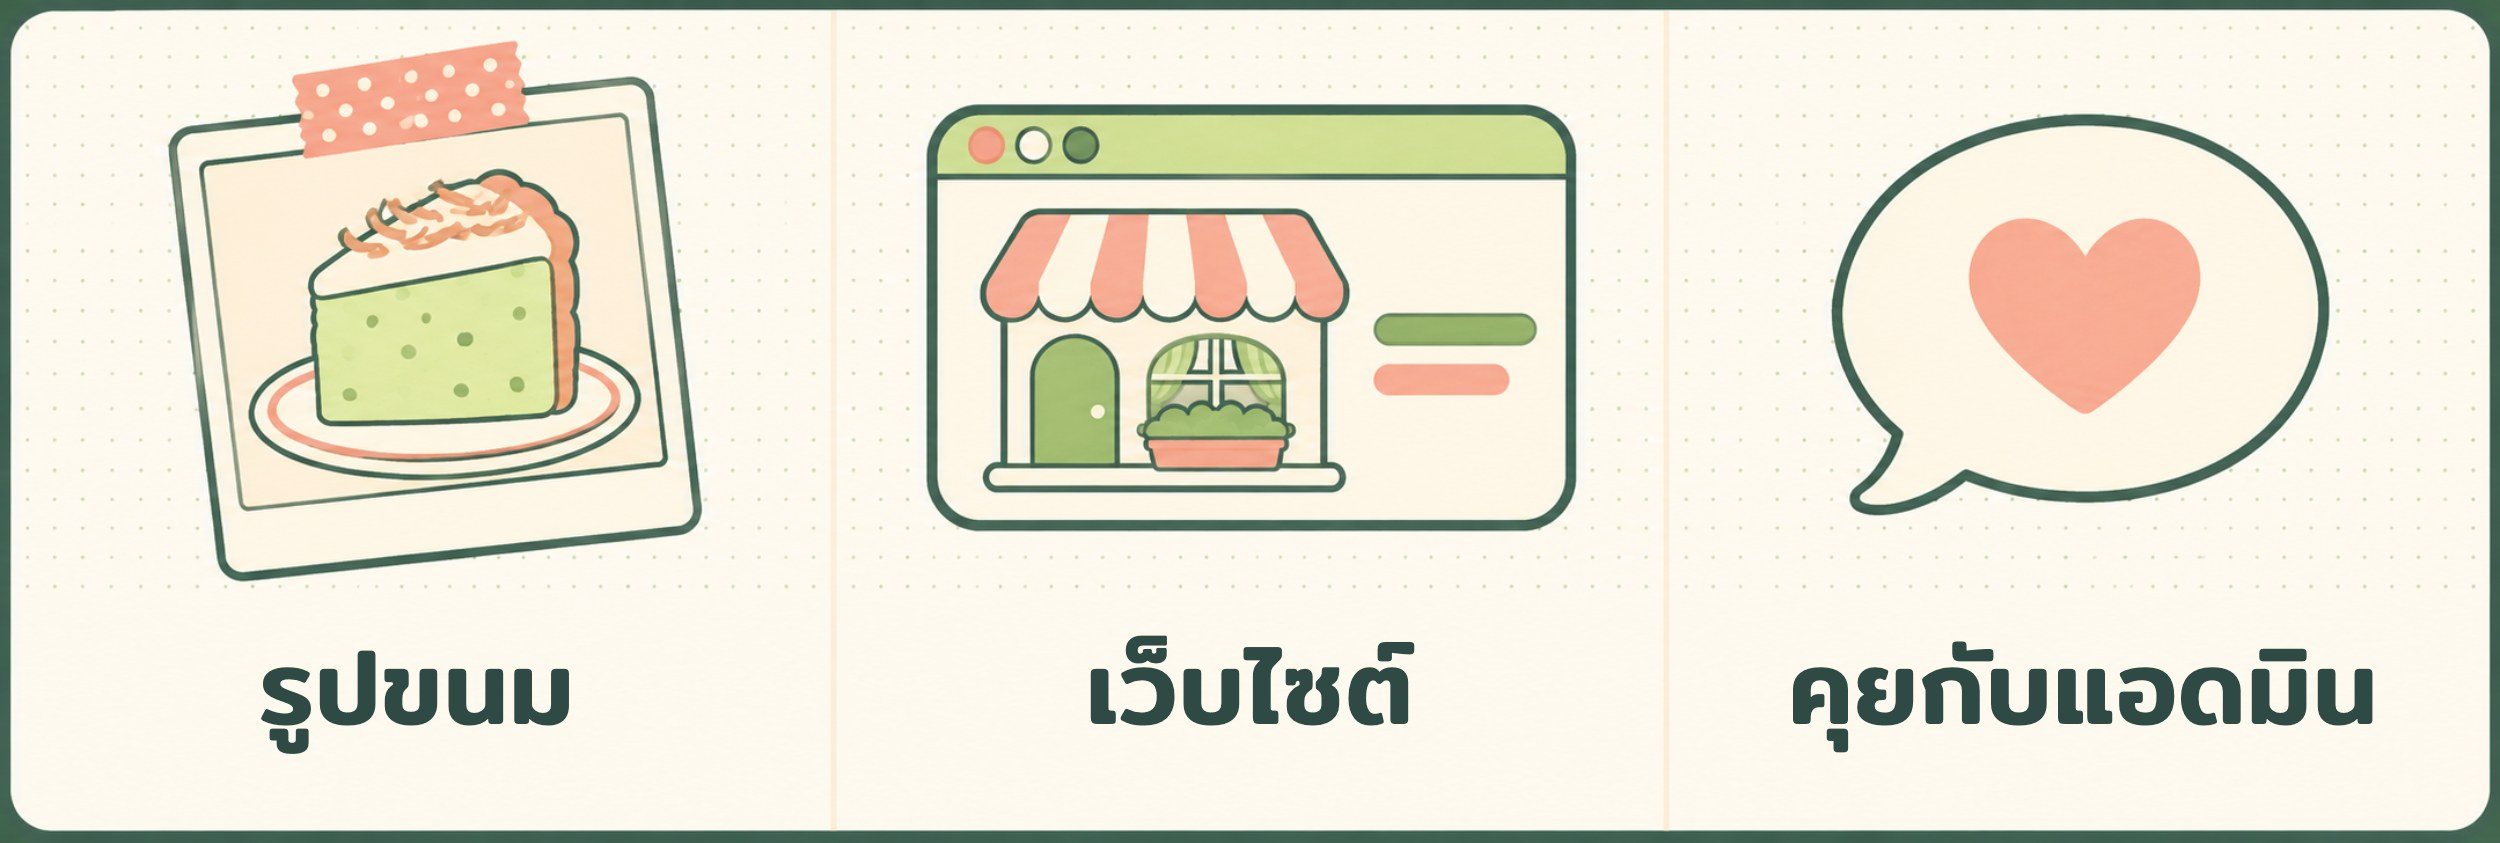
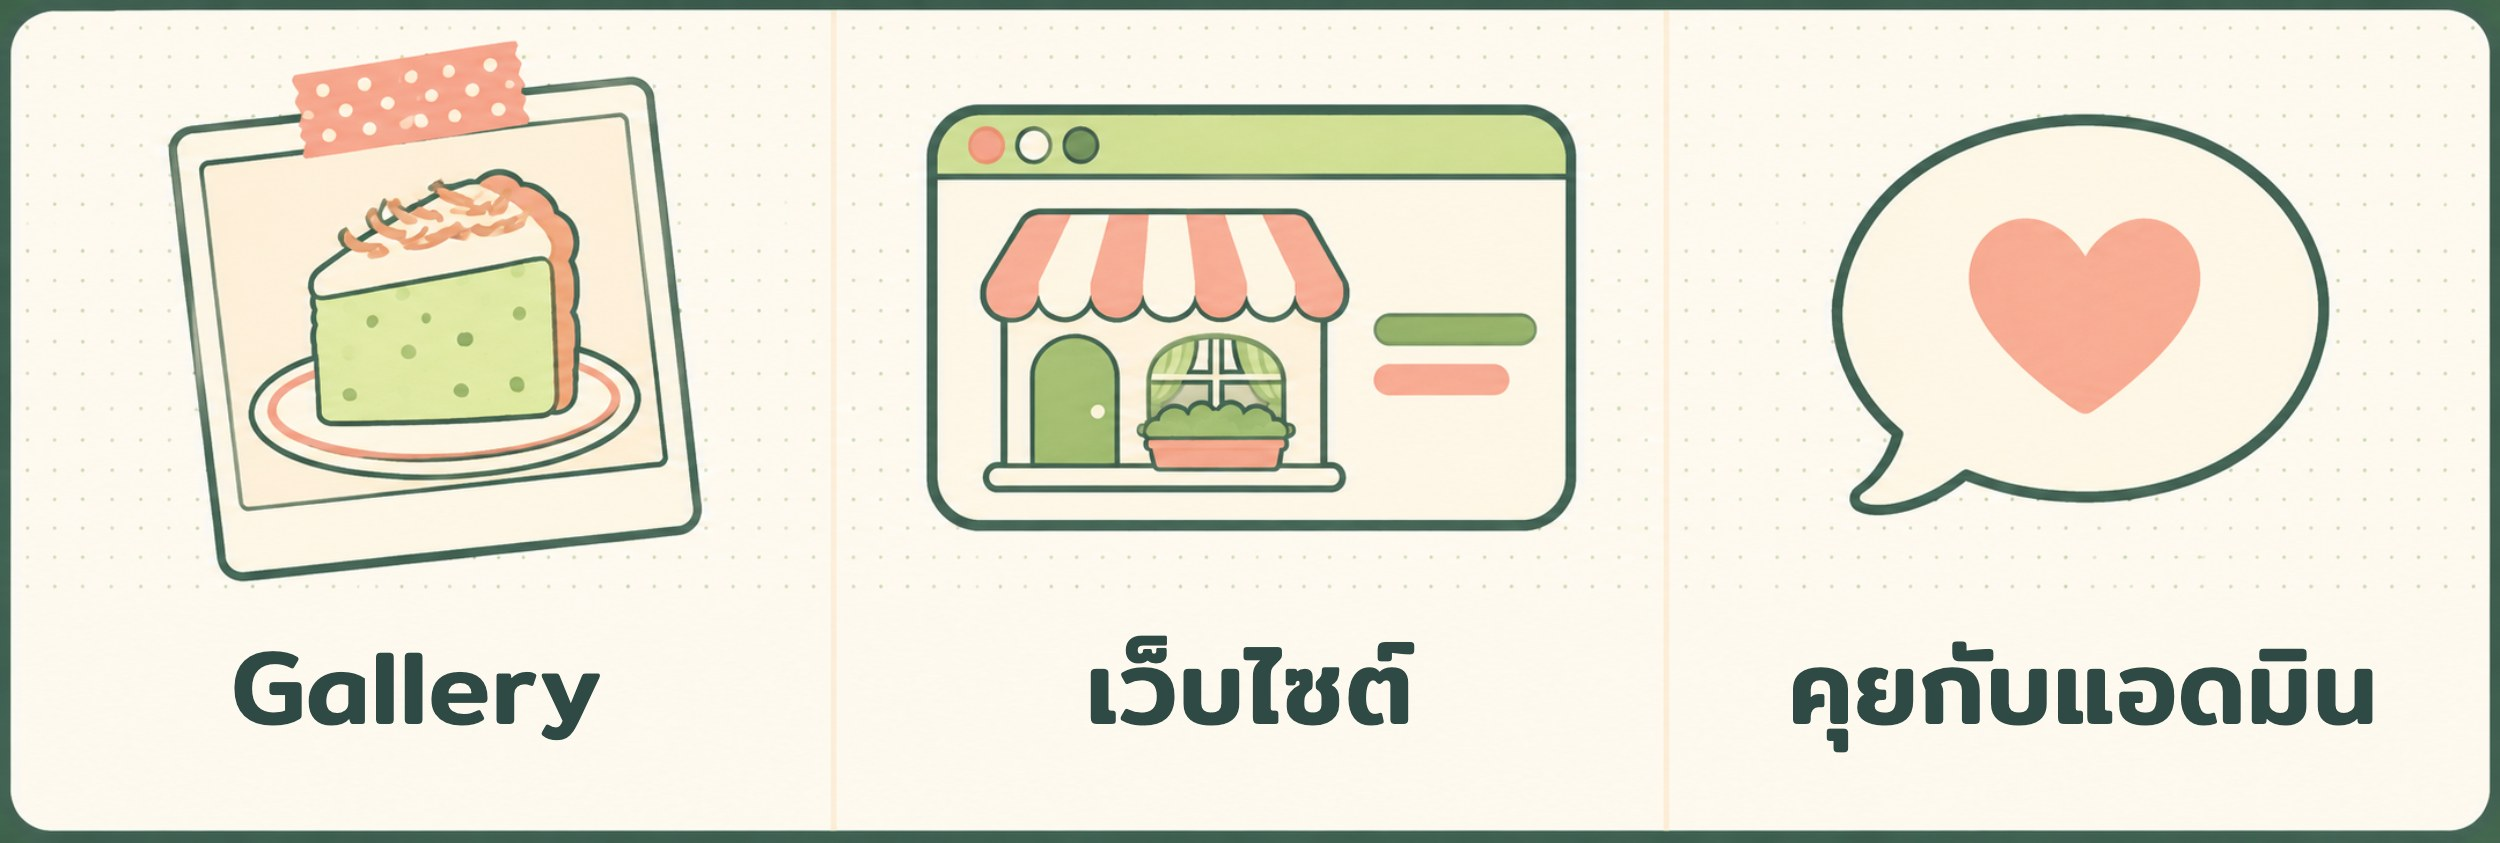
line-assets: rich menu left button reads Gallery

Changed region(s): [[0.0936, 0.7711, 0.2496, 0.8944]]

diff --git a/line-assets/rich-menu-v2.html b/line-assets/rich-menu-v2.html
@@ -5,12 +5,12 @@
 <link href="https://fonts.googleapis.com/css2?family=Mitr:wght@500&display=block" rel="stylesheet">
 <style>
 /* Rich menu v2 (2500x843): background drawn by the owner (rich-menu-background-v2.png), labels set here so the
-   Thai text is crisp. Buttons left to right: รูปขนม -> /gallery/, เว็บไซต์ -> /, คุยกับแอดมิน -> chat. */
+   Thai text is crisp. Buttons left to right: Gallery -> /gallery/, เว็บไซต์ -> /, คุยกับแอดมิน -> chat. */
 *{margin:0;box-sizing:border-box}
 html,body{width:2500px;height:843px;overflow:hidden;background:#FFFBF3}
 body{background:url(rich-menu-background-v2.png) 0 0/100% 100% no-repeat;display:grid;grid-template-columns:repeat(3,1fr)}
 div{display:flex;align-items:flex-end;justify-content:center;padding-bottom:105px;font:500 104px/1 Mitr,"Sukhumvit Set",Thonburi,sans-serif;color:#2F4A45;letter-spacing:.01em}
 </style>
 </head>
-<body><div>รูปขนม</div><div>เว็บไซต์</div><div>คุยกับแอดมิน</div></body>
+<body><div>Gallery</div><div>เว็บไซต์</div><div>คุยกับแอดมิน</div></body>
 </html>
